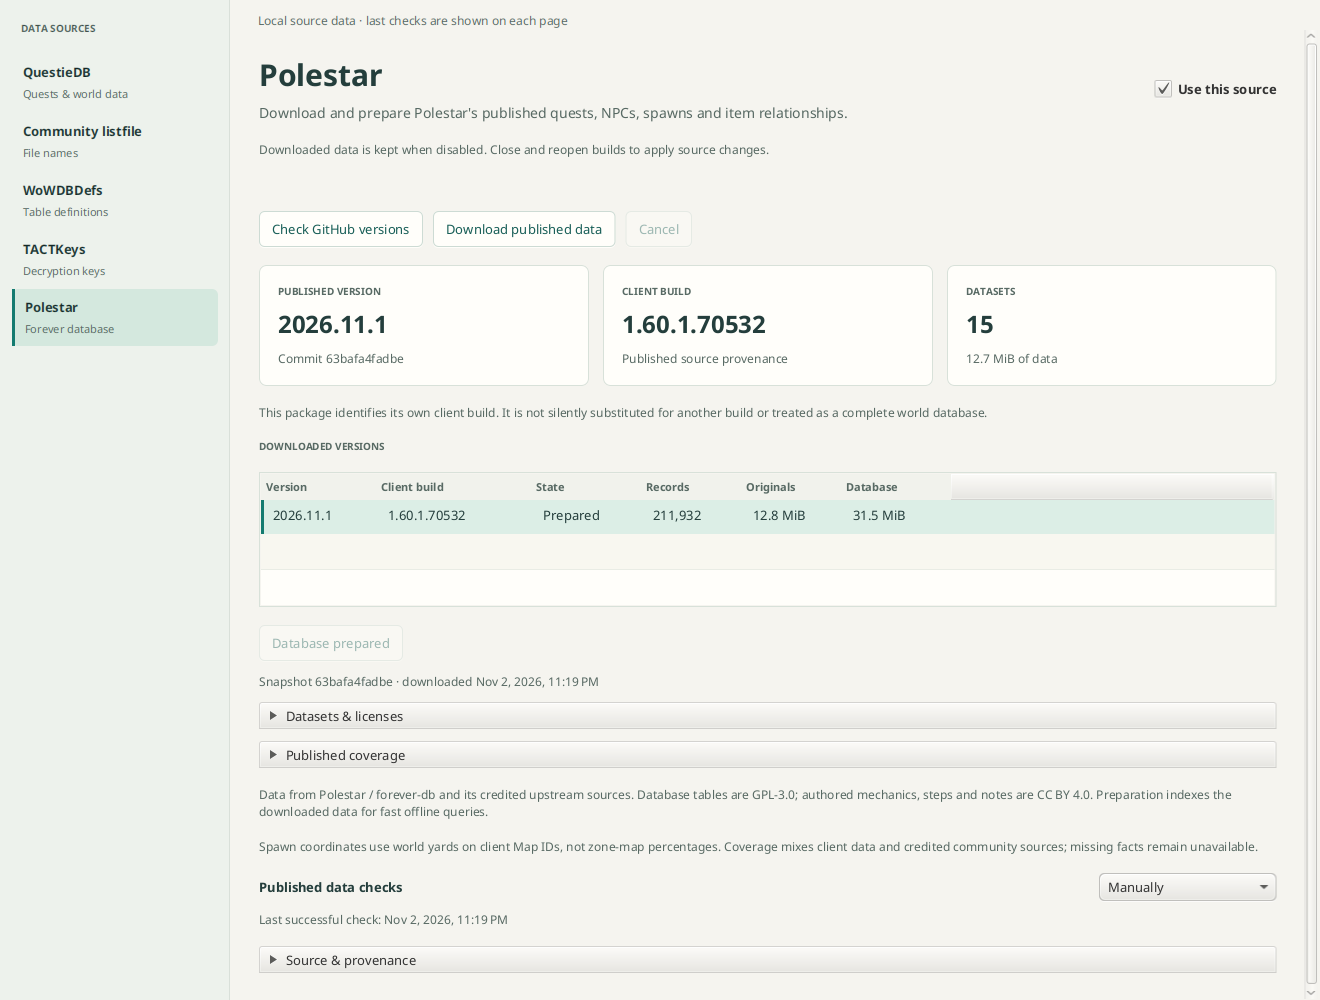
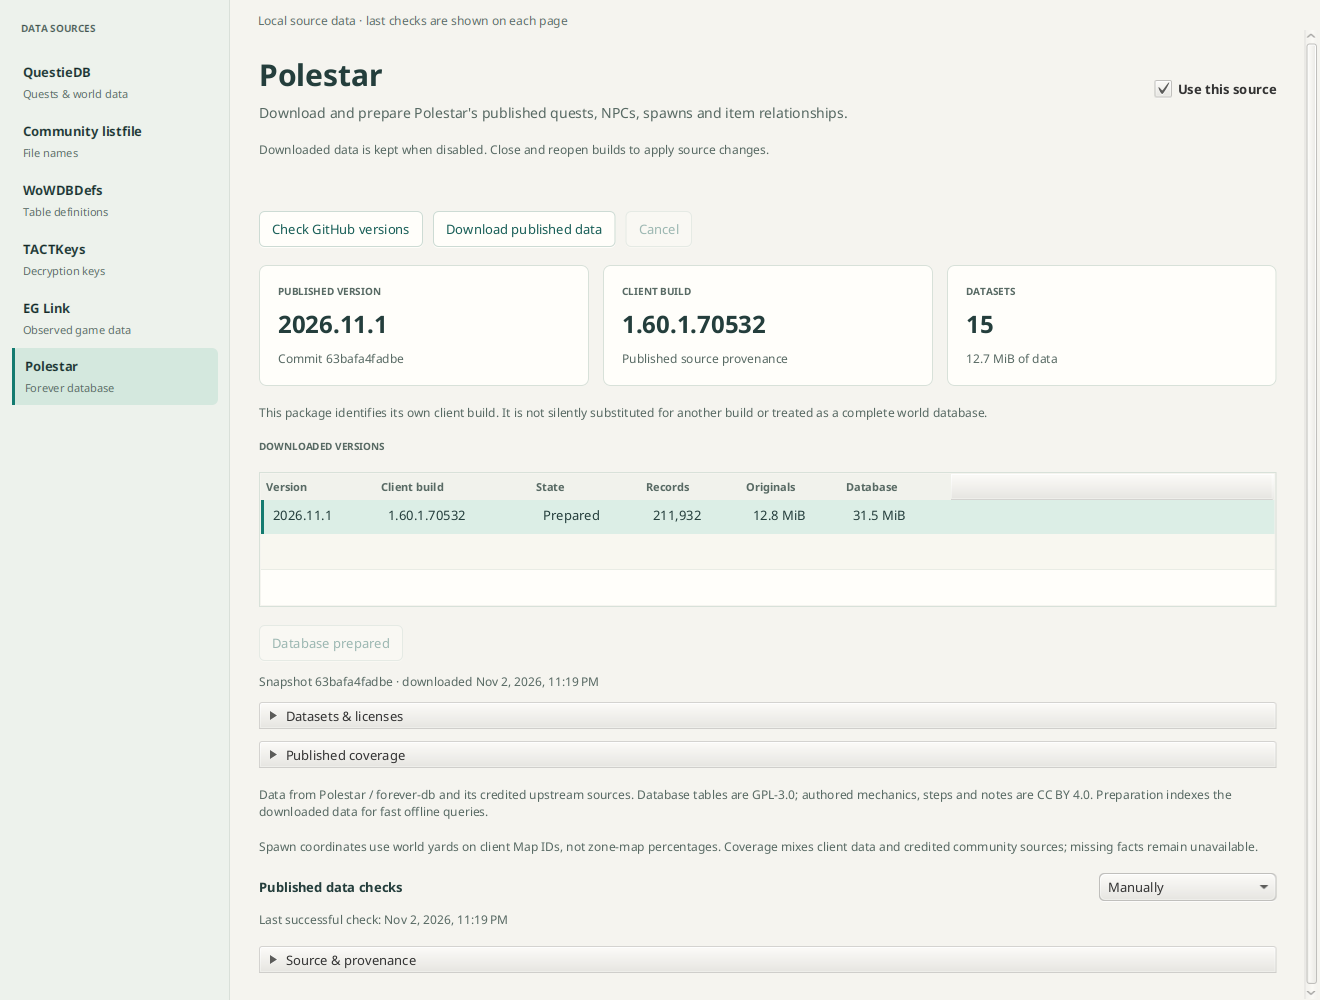
Reuse unchanged Polestar publications across repository updates

Changed region(s): [[0.0, 0.279, 0.1864, 0.403]]

diff --git a/polestar/src/main/java/com/vibeminer/polestar/PolestarRepository.java b/polestar/src/main/java/com/vibeminer/polestar/PolestarRepository.java
@@ -85,6 +85,29 @@ public final class PolestarRepository implements AutoCloseable {
                     if (!revision.matches("[0-9a-f]{40}")) {
                         throw new IOException("Expected immutable Polestar commit");
                     }
+                    Path cachedPath = root.resolve("catalog.json");
+                    if (Files.exists(cachedPath, LinkOption.NOFOLLOW_LINKS)) {
+                        try {
+                            byte[] cachedBytes = read(cachedPath, 3 << 20);
+                            var cached = catalog(cachedBytes);
+                            if (revision.equals(cached.revision())) {
+                                var metadata = Json.object(Json.parse(cachedBytes, 3 << 20));
+                                var indexBytes = decode(metadata, "indexBytes");
+                                var packageBytes = decode(metadata, "packageBytes");
+                                var reused =
+                                        Manifest.parse(
+                                                revision,
+                                                head.observedAt(),
+                                                indexBytes,
+                                                packageBytes);
+                                token.check();
+                                atomic(cachedPath, envelope(reused, indexBytes, packageBytes));
+                                return reused;
+                            }
+                        } catch (IOException | IllegalArgumentException invalid) {
+                            // A damaged local metadata copy is repaired from GitHub.
+                        }
+                    }
                     var index = client.fetchPolestarFile(revision, "index.json", token).join();
                     var pack = client.fetchPolestarFile(revision, "datapackage.json", token).join();
                     var value =
@@ -237,8 +260,85 @@ public final class PolestarRepository implements AutoCloseable {
     public CompletableFuture<Snapshot> sync(Consumer<Progress> progress, Cancellation token) {
         progress.accept(new Progress("Checking Polestar GitHub publication", 0, 0));
         return check(token)
-                .thenCompose(value -> download(value, progress, token))
+                .thenCompose(
+                        value ->
+                                reusable(value, token)
+                                        .thenCompose(
+                                                existing -> {
+                                                    if (existing.isPresent()) {
+                                                        progress.accept(
+                                                                new Progress(
+                                                                        "Reused verified Polestar publication "
+                                                                                + existing.get()
+                                                                                        .catalog()
+                                                                                        .version(),
+                                                                        1,
+                                                                        1));
+                                                        return CompletableFuture.completedFuture(
+                                                                existing.get());
+                                                    }
+                                                    return download(value, progress, token);
+                                                }))
                 .thenCompose(value -> prepare(value.id(), progress, token));
+    }
+
+    private CompletableFuture<Optional<Snapshot>> reusable(Catalog latest, Cancellation token) {
+        return call(
+                token,
+                () -> {
+                    var expected =
+                            Json.object(
+                                    Json.parse(
+                                            read(root.resolve("catalog.json"), 3 << 20), 3 << 20));
+                    try (var entries = Files.list(root.resolve("sources"))) {
+                        var paths =
+                                entries.filter(
+                                                path ->
+                                                        path.getFileName()
+                                                                .toString()
+                                                                .matches("[0-9a-f]{40}"))
+                                        .sorted()
+                                        .limit(129)
+                                        .toList();
+                        if (paths.size() > 128) {
+                            throw new IOException("Too many retained versions");
+                        }
+                        for (var path : paths) {
+                            token.check();
+                            try {
+                                var metadata =
+                                        Json.object(
+                                                Json.parse(
+                                                        read(
+                                                                path.resolve("snapshot.json"),
+                                                                3 << 20),
+                                                        3 << 20));
+                                var publication = Json.object(metadata.get("catalog"));
+                                if (!sameMetadata(publication, expected)) {
+                                    continue;
+                                }
+                                var stored = snapshot(path);
+                                verifyOriginals(path, latest, token);
+                                return Optional.of(stored);
+                            } catch (IOException | IllegalArgumentException invalid) {
+                                // An invalid retained copy is not evidence that the current
+                                // publication is available.
+                            }
+                        }
+                    }
+                    return Optional.empty();
+                });
+    }
+
+    private static boolean sameMetadata(Map<String, Object> left, Map<String, Object> right) {
+        return Json.parse(decode(left, "indexBytes"), 1 << 20)
+                        .equals(Json.parse(decode(right, "indexBytes"), 1 << 20))
+                && Json.parse(decode(left, "packageBytes"), 1 << 20)
+                        .equals(Json.parse(decode(right, "packageBytes"), 1 << 20));
+    }
+
+    private static byte[] decode(Map<String, Object> metadata, String name) {
+        return java.util.Base64.getDecoder().decode(Json.string(metadata.get(name)));
     }
 
     public CompletableFuture<List<Snapshot>> snapshots(Cancellation token) {

diff --git a/polestar/src/integrationTest/java/com/vibeminer/polestar/PolestarRepositoryTest.java b/polestar/src/integrationTest/java/com/vibeminer/polestar/PolestarRepositoryTest.java
@@ -26,6 +26,7 @@ final class PolestarRepositoryTest {
         final Map<String, byte[]> files = PolestarFixtures.files();
         final AtomicInteger calls = new AtomicInteger();
         boolean offline;
+        String revision = "a".repeat(40);
 
         public CompletableFuture<PolestarReply> fetchPolestarHead(Cancellation token) {
             calls.incrementAndGet();
@@ -36,7 +37,7 @@ final class PolestarRepositoryTest {
                             new PolestarReply(
                                     SourceUrls.POLESTAR_HEAD,
                                     Instant.EPOCH,
-                                    Json.bytes(Map.of("object", Map.of("sha", "a".repeat(40))))));
+                                    Json.bytes(Map.of("object", Map.of("sha", revision)))));
         }
 
         public CompletableFuture<PolestarReply> fetchPolestarFile(
@@ -156,19 +157,30 @@ final class PolestarRepositoryTest {
             var first = repository.sync(p -> {}, Cancellation.NONE).join();
             int before = client.calls.get();
             repository.sync(p -> {}, Cancellation.NONE).join();
+            assertEquals(1, client.calls.get() - before);
+            var databaseFile = directory.resolve("derived").resolve(first.id() + ".sqlite");
+            var modified = Files.getLastModifiedTime(databaseFile);
+            client.revision = "c".repeat(40);
+            before = client.calls.get();
+            var unchanged = repository.sync(p -> {}, Cancellation.NONE).join();
             assertEquals(3, client.calls.get() - before);
+            assertEquals(first.id(), unchanged.id());
+            assertEquals(first.preparedAt(), unchanged.preparedAt());
+            assertEquals(modified, Files.getLastModifiedTime(databaseFile));
             Path npc = directory.resolve("sources").resolve(first.id()).resolve("npc.jsonl");
             Files.writeString(npc, Files.readString(npc).replace("Authored", "Changed!"));
             var repaired = repository.sync(p -> {}, Cancellation.NONE).join();
             assertEquals(15, repaired.records());
-            assertTrue(Files.readString(npc).contains("Authored"));
-            Path database = directory.resolve("derived").resolve(first.id() + ".sqlite");
+            Path repairedNpc =
+                    directory.resolve("sources").resolve(repaired.id()).resolve("npc.jsonl");
+            assertTrue(Files.readString(repairedNpc).contains("Authored"));
+            Path database = directory.resolve("derived").resolve(repaired.id() + ".sqlite");
             Files.writeString(database, "invalid database");
             assertTrue(
                     repository.snapshots(Cancellation.NONE).join().getFirst().issues().size() > 0);
             assertEquals(
                     15,
-                    repository.prepare(first.id(), p -> {}, Cancellation.NONE).join().records());
+                    repository.prepare(repaired.id(), p -> {}, Cancellation.NONE).join().records());
         }
     }
 
@@ -195,6 +207,52 @@ final class PolestarRepositoryTest {
                             .prepare(downloaded.id(), p -> {}, Cancellation.NONE)
                             .join()
                             .records());
+        }
+    }
+
+    @Test
+    void changedPublicationIsDownloadedAndPreparedWithoutRelabelingThePreviousSnapshot()
+            throws Exception {
+        var client = new Client();
+        try (var repository = new PolestarRepository(directory, client)) {
+            var previous = repository.sync(p -> {}, Cancellation.NONE).join();
+            client.revision = "c".repeat(40);
+            var index = Json.object(Json.parse(client.files.get("index.json"), 1 << 20));
+            var pack = Json.object(Json.parse(client.files.get("datapackage.json"), 1 << 20));
+            index.put("version", "2026.11.2");
+            pack.put("version", "2026.11.2");
+            byte[] changed =
+                    new String(
+                                    client.files.get("data/npc.jsonl"),
+                                    java.nio.charset.StandardCharsets.UTF_8)
+                            .replace("Authored", "Changed!")
+                            .getBytes(java.nio.charset.StandardCharsets.UTF_8);
+            client.files.put("data/npc.jsonl", changed);
+            for (var value : Json.array(pack.get("resources"))) {
+                var resource = Json.object(value);
+                if ("npc".equals(resource.get("name"))) {
+                    resource.put("hash", "sha256:" + PolestarRepository.hash(changed));
+                }
+            }
+            client.files.put("index.json", Json.bytes(index));
+            client.files.put("datapackage.json", Json.bytes(pack));
+            var latest = repository.sync(p -> {}, Cancellation.NONE).join();
+            assertEquals("2026.11.2", latest.catalog().version());
+            assertEquals(client.revision, latest.id());
+            assertEquals(
+                    "Changed! record",
+                    repository
+                            .lookup(latest.id(), PolestarTypes.Table.NPC, "1", Cancellation.NONE)
+                            .join()
+                            .getFirst()
+                            .name());
+            assertEquals(
+                    "Authored record",
+                    repository
+                            .lookup(previous.id(), PolestarTypes.Table.NPC, "1", Cancellation.NONE)
+                            .join()
+                            .getFirst()
+                            .name());
         }
     }
 }

diff --git a/gui/src/main/java/com/vimi/gui/DataSourcesView.java b/gui/src/main/java/com/vimi/gui/DataSourcesView.java
@@ -33,6 +33,7 @@ final class DataSourcesView extends BorderPane {
     private Source selectedSource;
     private String selectedDatabase;
     private String selectedPolestar;
+    private String selectedEgBuild, selectedEgSource;
     private final Label activityLabel = text("", "muted");
     private final javafx.scene.control.ProgressBar progress =
             new javafx.scene.control.ProgressBar(-1);

diff --git a/polestar/README.md b/polestar/README.md
@@ -23,7 +23,11 @@ on Linux, Windows and macOS. Tests use authored fixtures, never live services.
 `catalog` and `snapshots` read only local state; `check` fetches GitHub metadata;
 `download` verifies and retains the selected checked publication; `prepare` creates
 its query database. `sync` composes these stages and reuses checksum-valid originals
-and valid prepared databases. Transport is injected through `PolestarClient`.
+and valid prepared databases. An unchanged GitHub head reuses its cached metadata
+with one small reference request. A new repository commit with identical published
+index/package content reuses the verified older snapshot and database, preserving
+its original pinned provenance rather than relabeling it as newly downloaded.
+Transport is injected through `PolestarClient`.
 
 `lookup(sourceId, table, key, token)` returns up to 500 records for that published
 key; relationship tables may have multiple records with the same target ID.
